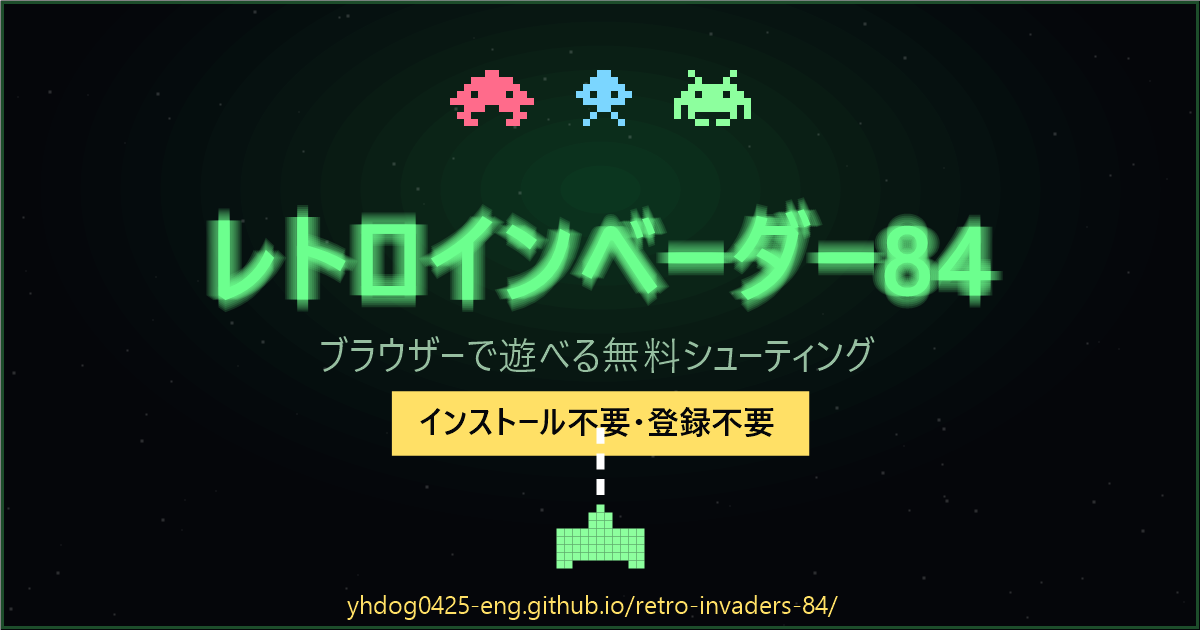
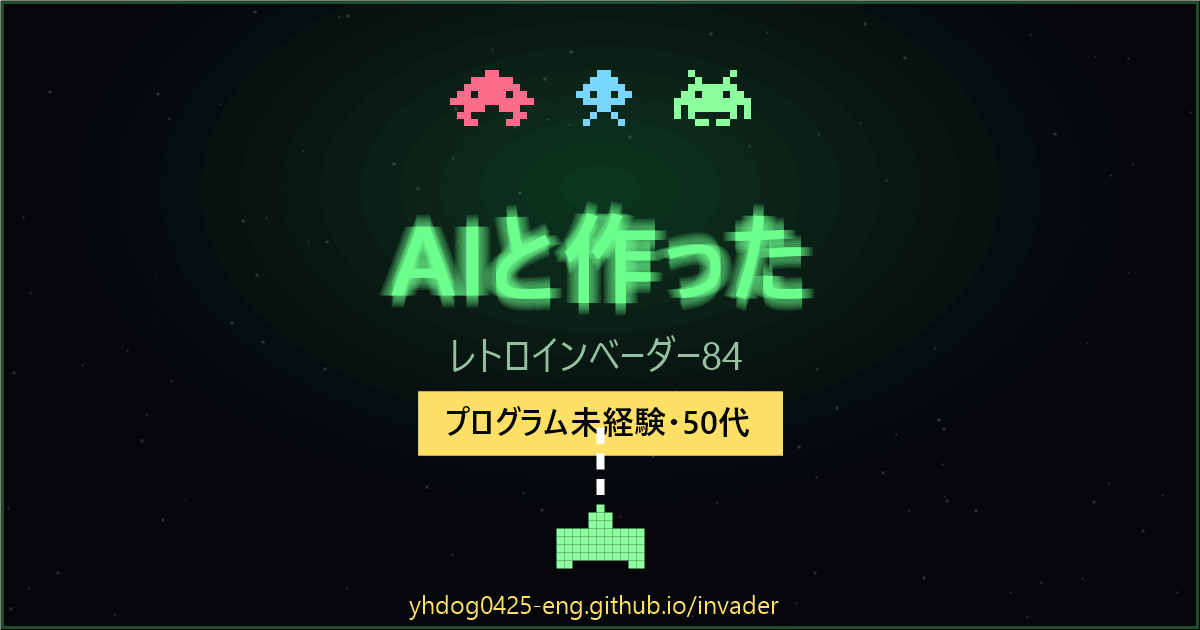
1本目の動画を「AIと作った」という本題に沿って作り直し
チャンネルの主題はAIとの共作であり、ゲームは題材。ところが旧版は
丸ごとゲームのデモ映像で、人が作った気配が1秒も入っていなかった。
遊び方の説明を削り、作った話に尺を回す。

- movie.html: 台本を全面差し替え（通常3分00秒／ショート55秒）
  - 場面の種類に hook（冒頭のつかみ）と message（締めの言葉）を追加
  - message は1行ずつ浮かび上がり、結論の行だけ色を変える
  - 映像では「AI」とだけ呼ぶ。具体名は概要欄に書く（映像を長く通用させる）
- generate-thumbnails.ps1: 訴求を「AIと作った／プログラム未経験・50代」に変更
- youtube/貼る用/: タイトル・説明欄・タグ・固定コメントを刷新。
  AIが何をして人が何をしたかを正直に書き、Claude Code と明記
- index.html: タイトル画面に「AIと作りました」を添え、動画からの話をつなぐ

diff --git a/movie.html b/movie.html
@@ -109,30 +109,41 @@ const PARAMS   = new URLSearchParams(location.search);
 // 1動画＝1ゲームで、見た人をそのゲームへまっすぐ案内する。
 const PLAY_URL = "yhdog0425-eng.github.io/invader";
 
-/* ===== 出力設定と構成台本 ===== */
+/* ===== 出力設定と構成台本 =====
+   主題は「AIと作った」であって、ゲームの紹介ではない。
+   ゲームは題材なので、遊び方の説明は最小限にとどめ、作った話に尺を回す。
+   映像では「AI」とだけ呼び、具体的なサービス名は概要欄に書く（映像を長く通用させるため）。 */
 const MODES = {
   wide: {
-    label: "通常動画 1280×720", w: 1280, h: 720, file: "retro-invaders-84.webm", dur: 150,
+    label: "通常動画 1280×720", w: 1280, h: 720, file: "retro-invaders-84.webm", dur: 180,
     scenes: [
-      { t: 0,   d: 6,  kind: "title", main: "レトロインベーダー84", sub: "ブラウザーで、あの頃へ。" },
-      { t: 6,   d: 8,  kind: "quote", lines: ["1978年、駄菓子屋の店先に、", "その筐体はあった。"] },
-      { t: 14,  d: 16, kind: "telop", lines: ["移動は ← →", "発射は スペース"] },
-      { t: 30,  d: 40, kind: "play" },
-      { t: 70,  d: 15, kind: "telop", lines: ["ピンクのUFOは", "50〜300点"] },
-      { t: 85,  d: 30, kind: "telop", lines: ["シールドは、", "自分の弾でも削れる"] },
-      { t: 115, d: 20, kind: "telop", lines: ["レベルが上がるほど、", "速くなる"] },
-      { t: 135, d: 15, kind: "outro" },
+      { t: 0,   d: 8,  kind: "hook",  lines: ["このゲーム、AIと作りました。"] },
+      { t: 8,   d: 10, kind: "quote", lines: ["50代。プログラムは書けません。", "それでも、作りたいものがありました。"] },
+      { t: 18,  d: 12, kind: "quote", lines: ["子どもの頃、駄菓子屋の店先に", "あの筐体がありました。", "同じ頃に生まれた友人に、", "もう一度見せたくて。"] },
+      { t: 30,  d: 8,  kind: "title", main: "レトロインベーダー84", sub: "ブラウザーで、あの頃へ。" },
+      { t: 38,  d: 14, kind: "telop", lines: ["移動は ← →", "発射は スペース"] },
+      { t: 52,  d: 38, kind: "play" },
+      { t: 90,  d: 15, kind: "telop", lines: ["ドット絵も 効果音も", "ぜんぶ手作り"] },
+      { t: 105, d: 15, kind: "telop", lines: ["ブラウン管の走査線まで", "再現しました"] },
+      { t: 120, d: 15, kind: "telop", lines: ["この動画も", "ブラウザーが書き出しています"] },
+      { t: 135, d: 25, kind: "message", lines: [
+          "道具は、誰でも使えるようになりました。",
+          "何を作りたいか。",
+          "おかしいと気づくこと。",
+          "それは、いまも人の側にあります。"] },
+      { t: 160, d: 20, kind: "outro" },
     ],
   },
   shorts: {
     label: "ショート 1080×1920", w: 1080, h: 1920, file: "retro-invaders-84-shorts.webm", dur: 55,
     scenes: [
-      { t: 0,  d: 3,  kind: "telop", lines: ["ブラウザーだけで遊べる"] },
-      { t: 3,  d: 5,  kind: "title", main: "レトロインベーダー84", sub: "インストール不要・無料" },
-      { t: 8,  d: 14, kind: "play" },
-      { t: 22, d: 10, kind: "telop", lines: ["UFOは 50〜300点"] },
-      { t: 32, d: 13, kind: "play" },
-      { t: 45, d: 10, kind: "outro" },
+      { t: 0,  d: 4,  kind: "hook",  lines: ["このゲーム、", "AIと作りました。"] },
+      { t: 4,  d: 6,  kind: "quote", lines: ["50代。", "プログラムは書けません。"] },
+      { t: 10, d: 14, kind: "play" },
+      { t: 24, d: 7,  kind: "telop", lines: ["ドット絵も効果音も", "ぜんぶ手作り"] },
+      { t: 31, d: 10, kind: "play" },
+      { t: 41, d: 7,  kind: "message", lines: ["道具は、誰でも", "使えるようになりました。"] },
+      { t: 48, d: 7,  kind: "outro" },
     ],
   },
 };
@@ -320,6 +331,45 @@ function cardQuote(lines, alpha) {
   ctx.restore();
 }
 
+// 冒頭のつかみ。全画面の暗幕に、一番大きな文字で一文だけ。
+function cardHook(lines, alpha) {
+  const { w: W, h: H } = mode;
+  ctx.save();
+  ctx.globalAlpha = alpha;
+  ctx.fillStyle = "rgba(2,4,6,0.93)";
+  ctx.fillRect(0, 0, W, H);
+  const size = mode === MODES.wide ? 66 : 82, lh = size * 1.6;
+  const top = H / 2 - ((lines.length - 1) * lh) / 2;
+  lines.forEach((s, i) => text(s, W / 2, top + i * lh, size, C.greenD, "center", true, 30));
+  ctx.restore();
+}
+
+// 締めのメッセージ。1行ずつ順に浮かび上がらせて、ここだけ間を持たせる。
+function cardMessage(lines, sec, s, alpha) {
+  const { w: W, h: H } = mode;
+  ctx.save();
+  ctx.globalAlpha = alpha;
+  ctx.fillStyle = "rgba(2,4,6,0.94)";
+  ctx.fillRect(0, 0, W, H);
+
+  const size = mode === MODES.wide ? 40 : 50, lh = size * 2.0;
+  const top = H / 2 - ((lines.length - 1) * lh) / 2;
+  // 場面の前半を使って、行を順に出す
+  const step = (s.d * 0.55) / lines.length;
+  lines.forEach((line, i) => {
+    const appear = 0.6 + i * step;              // この行が出はじめる秒
+    const local = (sec - s.t) - appear;
+    if (local < 0) return;
+    ctx.save();
+    ctx.globalAlpha = alpha * Math.min(1, local / 0.7);
+    // 最後の1行だけ色を変えて、結論だと分かるようにする
+    const isLast = (i === lines.length - 1);
+    text(line, W / 2, top + i * lh, size, isLast ? C.yellow : C.gray, "center", isLast, isLast ? 16 : 0);
+    ctx.restore();
+  });
+  ctx.restore();
+}
+
 function cardOutro(alpha) {
   const { w: W, h: H } = mode;
   ctx.save();
@@ -361,6 +411,8 @@ function renderFrame(sec) {
   const a = fadeOf(sec, s);
   if (s.kind === "play") statsPanel();
   if (s.kind === "title") cardTitle(s.main, s.sub, a);
+  else if (s.kind === "hook") cardHook(s.lines, a);
+  else if (s.kind === "message") cardMessage(s.lines, sec, s, a);
   else if (s.kind === "quote") cardQuote(s.lines, a);
   else if (s.kind === "outro") cardOutro(a);
   else if (s.kind === "telop") telop(s.lines, a);

diff --git a/index.html b/index.html
@@ -98,6 +98,7 @@
   }
   #overlay p { margin: 0; font-size: clamp(12px, 2.6vw, 15px); line-height: 1.9; color: #b6d8bd; }
   #overlay .key { color: #ffe066; }
+  #overlay .made { margin: 4px 0 0; font-size: 12px; color: #7bd6ff; letter-spacing: 0.5px; }
   #overlay .url { font-size: 11px; color: #4d6b55; letter-spacing: 0.5px; word-break: break-all; text-decoration: none; }
   #overlay .url:hover { color: #8dff9e; }
   button.btn {
@@ -136,7 +137,8 @@
         <h1 id="ov-title">RETRO INVADERS 84</h1>
         <p id="ov-text"></p>
         <button class="btn" id="ov-btn">PUSH 1P START</button>
-        <a class="url" href="https://www.youtube.com/@takaya5372" target="_blank" rel="noopener">ほかのゲームは YouTube で公開しています ▶</a>
+        <p class="made">プログラムの書けない50代が、AIと作りました</p>
+        <a class="url" href="https://www.youtube.com/@takaya5372" target="_blank" rel="noopener">作った話と、ほかのゲームは YouTube で ▶</a>
       </div>
     </div>
     <div id="panelbar">
